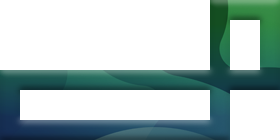
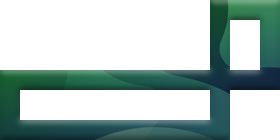
more

Changed region(s): [[0.0, 0.5143, 0.1143, 0.8857], [0.9429, 0.4857, 1.0, 0.5429]]

diff --git a/src/frog.js b/src/frog.js
@@ -133,7 +133,7 @@ app.stage.sortableChildren = true
 
 
 var levelbackgrounds = [] 
-const level3bgtex = PIXI.Texture.from('src/assets/level3bg.png',{wrapMode:PIXI.WRAP_MODES.MIRRORED_REPEAT})
+const level3bgtex = PIXI.Texture.from('src/assets/level3bg2.png',{wrapMode:PIXI.WRAP_MODES.MIRRORED_REPEAT})
 const level3bg = PIXI.TilingSprite.from(level3bgtex, 5000, 5000)
 console.log(level3bg.width)
 level3bg.width = 5000
@@ -564,7 +564,7 @@ window.addEventListener("keydown", function(e) {
     // if (e.key == "2"){unloadlevel()}
     // if (e.key == "1"){loadlevel1()}
     if (e.key == "r"){reloadlevel()}
-    // if (e.key == "m"){makeblock(frog.x,frog.y+frog.height,frog.width,frog.height)}
+    if (e.key == "m"){makeblock(frog.x,frog.y+frog.height,frog.width,frog.height)}
 
 })
 // if(movingUp == false){timejumped = Date.now()}
@@ -682,10 +682,10 @@ app.ticker.add((delta) => {
    level.y = Math.min(cameratop,level.y)
    level.y = Math.max(camerabot,level.y)
 
-   currentlevelbackground.x = level.x/10
+   currentlevelbackground.x = level.x/8
    //if (currentlevelbackground.x > 400){level.x = -frog.x + 400}
    //if (currentlevelbackground.x < 300){level.x = -frog.x + 300}
-   currentlevelbackground.y = level.y/10
+   currentlevelbackground.y = level.y/8 - 720
    //if (currentlevelbackground.y > 470){level.y = -frog.y + 470}
    //if (currentlevelbackground.y < 100){level.y = -frog.y + 100}
 
@@ -1084,7 +1084,7 @@ var loadlevel2 = ()=>{
     makeblock(4230,-1000,50,2000,0x7C9082)
 
     // first blocks
-    spikeblock(460,650,140,20,0xF87575)
+    spikeblock(500,650,100,20,0xF87575)
 
     layoutblock(600,570,210,100)
 
@@ -1171,7 +1171,7 @@ var loadlevel2 = ()=>{
     spikeblock(900+280-50,-330-20+90,50,20,0xF87575)
     
 
-    makeblock(1380+190-40,-330-70+120-40,220,20,0x104911)
+    makeblock(1380+190-40,-320,220,20,0x104911)
     makeblock(1380+190-40,-330-70+120-40,20,100,0x104911)
     makeblock(1380+190-40+20,-330-70+120-40+80,220-40,20,0x104911)
     makeblock(1380+190-40+200,-330-70+120-40,20,100,0x104911)
@@ -1180,6 +1180,9 @@ var loadlevel2 = ()=>{
     makeblock(1380+20,-330-70+120,210-20,20,0xEDEEC0)
     makeblock(1380,-330-70,20,140,0xEDEEC0)
     makeblock(1380+190,-330-70,20,140,0xEDEEC0)
+
+    // layoutblock()
+
 
 
     // var movp = new PKPath([[2200, -100], [2200, -300], [2400, -300], [2400, -100], [2200, -100]])
